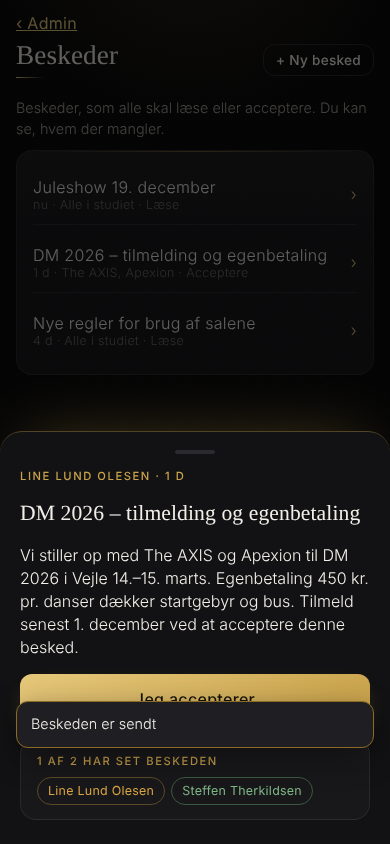
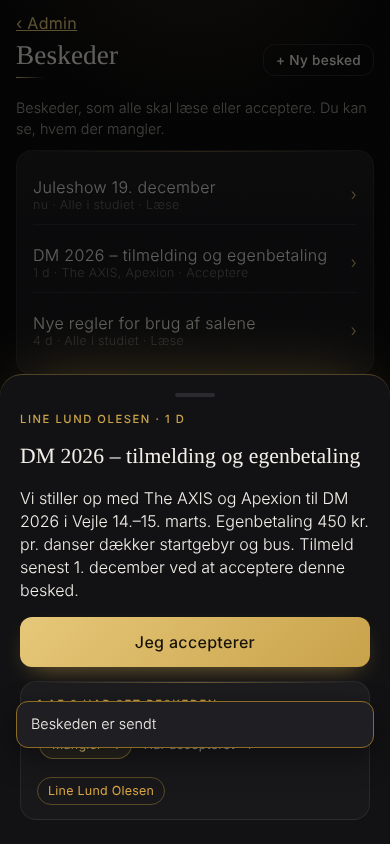
Messages: toggle between who is missing and who has read/accepted (with time). Sale calendar: events of the day shown as a strip above the room grid + star in the day picker – always in sync with Admin → Events (create/move/delete)
Claude-Session: https://claude.ai/code/session_01GGpukzb1UrCDBdg1Js3mqC

diff --git a/src/domain/llds/screens/Rooms.tsx b/src/domain/llds/screens/Rooms.tsx
@@ -1,6 +1,9 @@
 import { useCallback, useEffect, useRef, useState } from "react";
 import { useTranslation } from "react-i18next";
-import { api, type Absence, type Booking, type Room, type Session } from "@/core/api";
+import { api, type Absence, type Booking, type Event, type Room, type Session } from "@/core/api";
+import { EventSheet } from "./Events";
+import { catalogUrl as catUrl } from "../lib/catalog";
+import { artFor } from "../lib/art";
 import { useAuth } from "@/core/auth";
 import { Sheet, Toast } from "../components/Sheet";
 import { SessionSheet, SessionEditor } from "../components/SessionSheet";
@@ -29,6 +32,10 @@ export function Rooms() {
   const say = (m: string) => { setToast(m); setTimeout(() => setToast(null), 2600); };
   const week = mondayOf(day);
   const [weekSessions, setWeekSessions] = useState<Session[]>([]);   // for the dots in the day picker
+  const [events, setEvents] = useState<Event[]>([]);                   // events live in the calendar automatically – created, moved or deleted in Admin → Events
+  const [openEvent, setOpenEvent] = useState<Event | null>(null);
+  useEffect(() => { void api.listEvents(true).then(setEvents).catch(() => setEvents([])); }, [day.getTime()]); // eslint-disable-line react-hooks/exhaustive-deps
+  const dayEvents = events.filter((e) => sameDay(new Date(e.starts_at), day));
   const bgImg = useAppearance((a) => catalogUrl(a.a.images?.hero)) ?? art("studio");
   const myTeamIds = new Set(me.memberships.filter((m) => m.person_id === viewing.personId || m.person_id === me.person.id).map((m) => m.team_id));
   const accentOf = (teamId: string | null) => { const tm = teamId ? me.teams.find((x) => x.id === teamId) : null; return tm ? teamAccent(tm) : {}; };
@@ -55,12 +62,13 @@ export function Rooms() {
       <header className="topbar"><h1 className="display">{t("nav.rooms")}</h1>{isTrainer && <button className="ghost small" onClick={() => setOpen({ kind: "new", room_id: rooms[0]?.id ?? "", start: "16:00" })}>+ {t("session.training")}</button>}</header>
       <div className="days">
         {Array.from({ length: 7 }, (_, i) => addDays(week, i)).map((d) => (
-          <button key={d.toISOString()} className={"day" + (sameDay(d, day) ? " on" : "") + (sameDay(d, new Date()) ? " today" : "")} onClick={() => setDay(d)}><span>{dayLabel(d).split(" ")[0]}</span><b>{d.getDate()}</b><i className={weekSessions.some((x) => sameDay(new Date(x.starts_at), d) && x.team_id && myTeamIds.has(x.team_id)) ? "mine" : weekSessions.some((x) => sameDay(new Date(x.starts_at), d)) ? "any" : ""} /></button>
+          <button key={d.toISOString()} className={"day" + (sameDay(d, day) ? " on" : "") + (sameDay(d, new Date()) ? " today" : "")} onClick={() => setDay(d)}><span>{dayLabel(d).split(" ")[0]}</span><b>{d.getDate()}</b><i className={weekSessions.some((x) => sameDay(new Date(x.starts_at), d) && x.team_id && myTeamIds.has(x.team_id)) ? "mine" : weekSessions.some((x) => sameDay(new Date(x.starts_at), d)) ? "any" : ""} />{events.some((e) => sameDay(new Date(e.starts_at), d)) && <em className="evdot" aria-label="event">★</em>}</button>
         ))}
       </div>
       <div className="row between small muted"><button className="linklike" onClick={() => setDay(addDays(day, -7))}>‹ {t("rooms.prevWeek")}</button><button className="linklike" onClick={() => setDay(startOfDay(new Date()))}>{t("rooms.today")}</button><button className="linklike" onClick={() => setDay(addDays(day, 7))}>{t("rooms.nextWeek")} ›</button></div>
 
       <div className="dayhead"><h2 className="display">{DAY_LONG[(day.getDay() + 6) % 7]} {day.getDate()}. {day.toLocaleDateString("da-DK", { month: "long" })}</h2><span className="small muted">{t("rooms.countLine", { n: sessions.filter((x) => !x.cancelled).length, b: bookings.filter((x) => x.status !== "rejected").length })}</span></div>
+      {dayEvents.length > 0 && <div className="evstrip" data-testid="day-events">{dayEvents.map((e) => <button key={e.id} className="evcard-mini" style={{ backgroundImage: `url(${catUrl(e.image_key) ?? artFor(e.id)})` }} onClick={() => setOpenEvent(e)}><span className="eyebrow">{t(`events.kind.${e.kind}`)} · {hm(e.starts_at)}{e.ends_at ? `–${hm(e.ends_at)}` : ""}</span><b>{e.title}</b>{e.place && <small>{e.place}</small>}</button>)}</div>}
       <div className="cal calhead" style={{ gridTemplateColumns: `44px repeat(${rooms.length}, 1fr)` }}>
         <div />{rooms.map((r) => <div key={r.id} className="h">{r.name}</div>)}
       </div>
@@ -87,6 +95,7 @@ export function Rooms() {
       <p className="tiny">{t("rooms.legend")}</p>
       </div>
 
+      {openEvent && <EventSheet event={openEvent} staff={isStaff} onClose={() => setOpenEvent(null)} onChanged={() => void api.listEvents(true).then(setEvents)} toast={say} />}
       {open?.kind === "session" && <SessionSheet session={open.s} absences={absences} onClose={() => setOpen(null)} onChanged={() => void load()} toast={say} />}
       {open?.kind === "new" && <SessionEditor defaults={{ date: day, room_id: open.room_id, start: open.start }} onClose={() => setOpen(null)} onSaved={() => { setOpen(null); void load(); }} toast={say} />}
       {open?.kind === "book" && <BookSheet day={day} rooms={rooms} room_id={open.room_id} start={open.start} sessions={sessions} bookings={bookings} isStaff={isStaff} isTrainer={isTrainer}

diff --git a/src/styles.css b/src/styles.css
@@ -101,7 +101,7 @@ label.check input { width:20px; height:20px; accent-color:var(--gold); }
 
 /* ---------- phase 2: calendar, week, hero, misc ---------- */
 .days { display:flex; gap:6px; margin:4px 0 8px; }
-.days .day { flex:1; padding:8px 0; border-radius:10px; border:1px solid var(--line); background:none; color:var(--muted); display:flex; flex-direction:column; align-items:center; gap:2px; font-size:.75rem; font-weight:300; }
+.days .day { position:relative; flex:1; padding:8px 0; border-radius:10px; border:1px solid var(--line); background:none; color:var(--muted); display:flex; flex-direction:column; align-items:center; gap:2px; font-size:.75rem; font-weight:300; }
 .days .day b { font-weight:500; color:var(--fg); font-size:1rem; }
 .days .day.on { border-color:var(--gold3); background:var(--gold-soft); color:var(--gold2); }
 .cal { display:grid; gap:4px; font-size:.75rem; margin-top:10px; }
@@ -510,3 +510,10 @@ button.cta { box-shadow:0 10px 26px -12px rgba(201,162,74,.7); }
 .conflicts{padding:12px 14px;border-color:rgba(224,138,138,.45)}.conflictlist{margin:0;padding-left:18px;font-size:.9rem;line-height:1.5;max-height:200px;overflow:auto}
 .week .col.over{outline:2px dashed var(--gold);outline-offset:2px;border-radius:10px}.week .blk.dragging{opacity:.4}.week .blk[draggable]{cursor:grab}
 .chip.static{cursor:default}
+
+/* Sale: events of the day as a strip above the room grid; star dot in the day picker */
+.evstrip{display:flex;gap:10px;overflow-x:auto;scrollbar-width:none;margin:8px 0 10px;padding-bottom:2px}.evstrip::-webkit-scrollbar{display:none}
+.evcard-mini{flex:none;position:relative;min-width:220px;max-width:280px;min-height:84px;border-radius:16px;overflow:hidden;background:#000 center/cover;border:1px solid rgba(201,162,74,.4);color:#fff;text-align:left;padding:12px 14px;display:flex;flex-direction:column;justify-content:flex-end;gap:2px;isolation:isolate}
+.evcard-mini::before{content:"";position:absolute;inset:0;background:linear-gradient(180deg,rgba(10,10,12,.1),rgba(10,10,12,.85));z-index:-1}
+.evcard-mini .eyebrow{font-size:.62rem;margin:0}.evcard-mini b{font-size:1rem;line-height:1.1}.evcard-mini small{color:var(--muted);font-size:.75rem}
+.daypick .day .evdot,.days .day .evdot{position:absolute;top:4px;right:6px;font-style:normal;font-size:.6rem;color:var(--gold2)}

diff --git a/src/domain/llds/components/Messages.tsx b/src/domain/llds/components/Messages.tsx
@@ -43,6 +43,7 @@ export function MessageSheet({ message, onClose, toast }: { message: Message; on
   // "read" messages are marked read the moment they are opened – no button; only "accept" asks for a tap
   useEffect(() => { if (message.needs === "read" && !message.acted_at) void api.ackMessage(message.id).then(() => setActed(new Date().toISOString())).catch(() => { /* ignore */ }); }, [message.id]); // eslint-disable-line react-hooks/exhaustive-deps
   const done = status?.filter((s) => s.acted_at).length ?? 0;
+  const [showMissing, setShowMissing] = useState(true);
   return (
     <Sheet onClose={onClose} eyebrow={`${message.author_name} · ${ago(message.created_at)}`} title={message.title}>
       <p style={{ whiteSpace: "pre-wrap", margin: 0 }}>{message.body}</p>
@@ -51,7 +52,13 @@ export function MessageSheet({ message, onClose, toast }: { message: Message; on
       {isStaff && (status ? (
         <div className="card" style={{ margin: 0 }}>
           <div className="eyebrow">{t("msg.status", { done, total: status.length })}</div>
-          <div className="chips">{status.map((s) => <span key={s.person_id} className={"chip small" + (s.acted_at ? " ok" : " warn")}>{s.name}</span>)}</div>
+          <div className="seg2" style={{ margin: "8px 0" }} data-testid="msg-status-seg">
+            <button type="button" className={showMissing ? "on" : ""} onClick={() => setShowMissing(true)}>{t("msg.missing")} · {status.length - done}</button>
+            <button type="button" className={!showMissing ? "on" : ""} onClick={() => setShowMissing(false)}>{t(`msg.doneList.${message.needs}`)} · {done}</button>
+          </div>
+          {(() => { const list = status.filter((s) => (showMissing ? !s.acted_at : !!s.acted_at)); return list.length
+            ? <div className="chips">{list.map((s) => <span key={s.person_id} className={"chip small" + (s.acted_at ? " ok" : " warn")}>{s.name}{s.acted_at ? <span className="tiny"> · {ago(s.acted_at)}</span> : null}</span>)}</div>
+            : <p className="tiny muted" style={{ margin: 0 }}>{showMissing ? t("msg.nobodyMissing") : t("msg.nobodyYet")}</p>; })()}
         </div>
       ) : <button className="ghost small" onClick={async () => setStatus(await api.messageStatus(message.id))}>{t("msg.showStatus")}</button>)}
     </Sheet>
